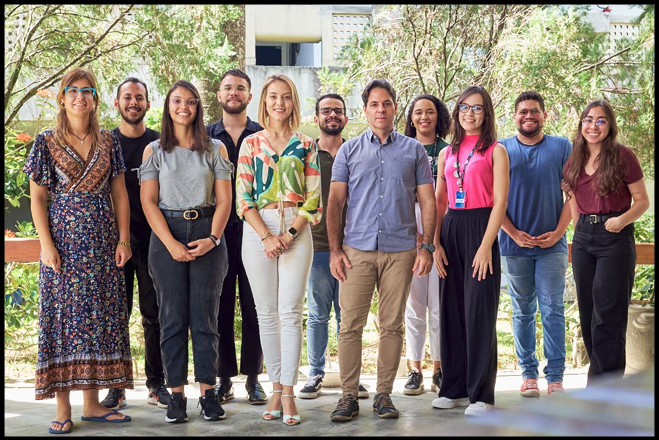
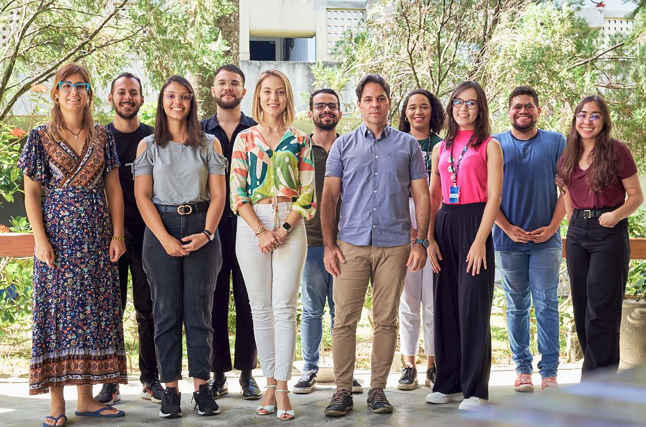
update members

diff --git a/members.md b/members.md
@@ -11,7 +11,7 @@ permalink: /members/
   </figure>
 
   <figure style="text-align: center;">
-    <img src="{{ '/images/group2.png' | relative_url }}" alt="group2" style="max-width: 350px; height: auto;" />
+    <img src="{{ '/images/group3.jpeg' | relative_url }}" alt="group2" style="max-width: 350px; height: auto;" />
   </figure>
 
 </div>
